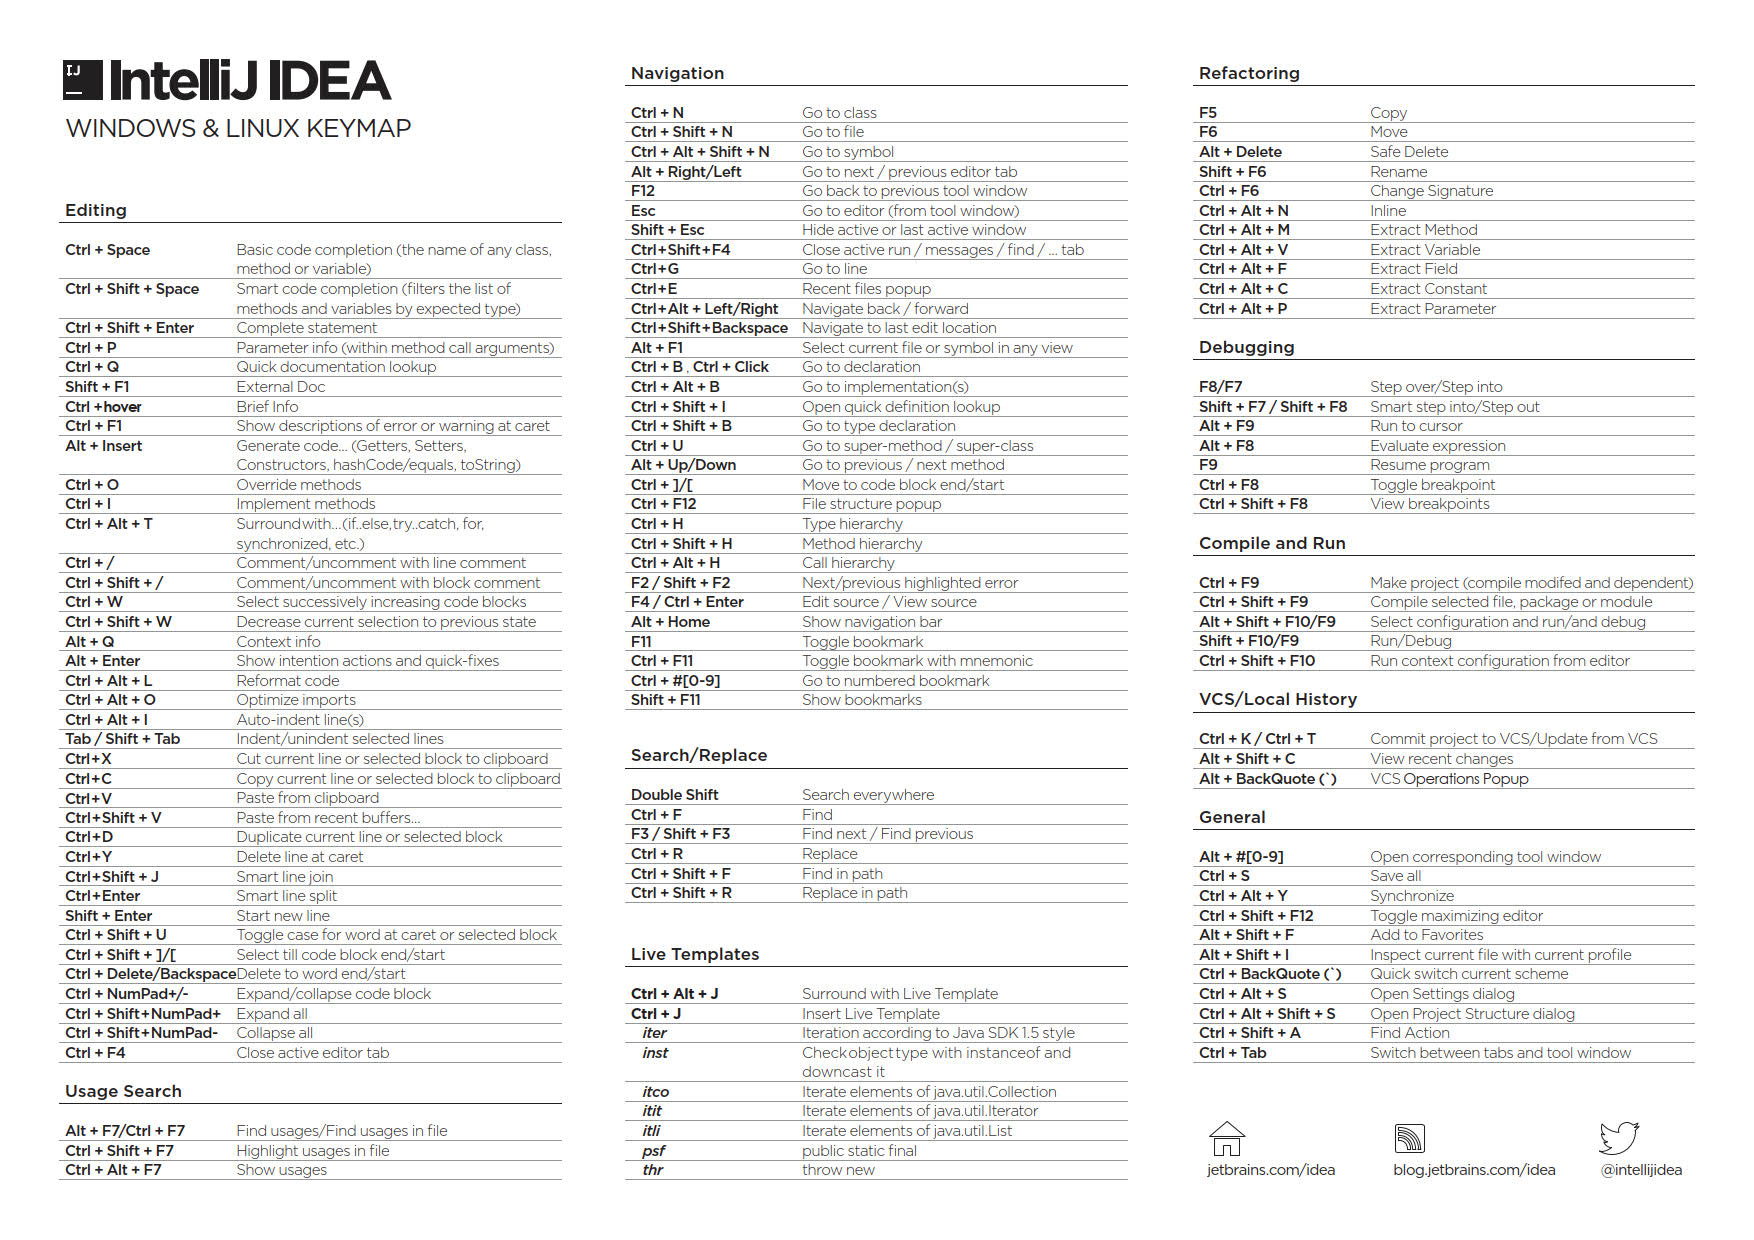
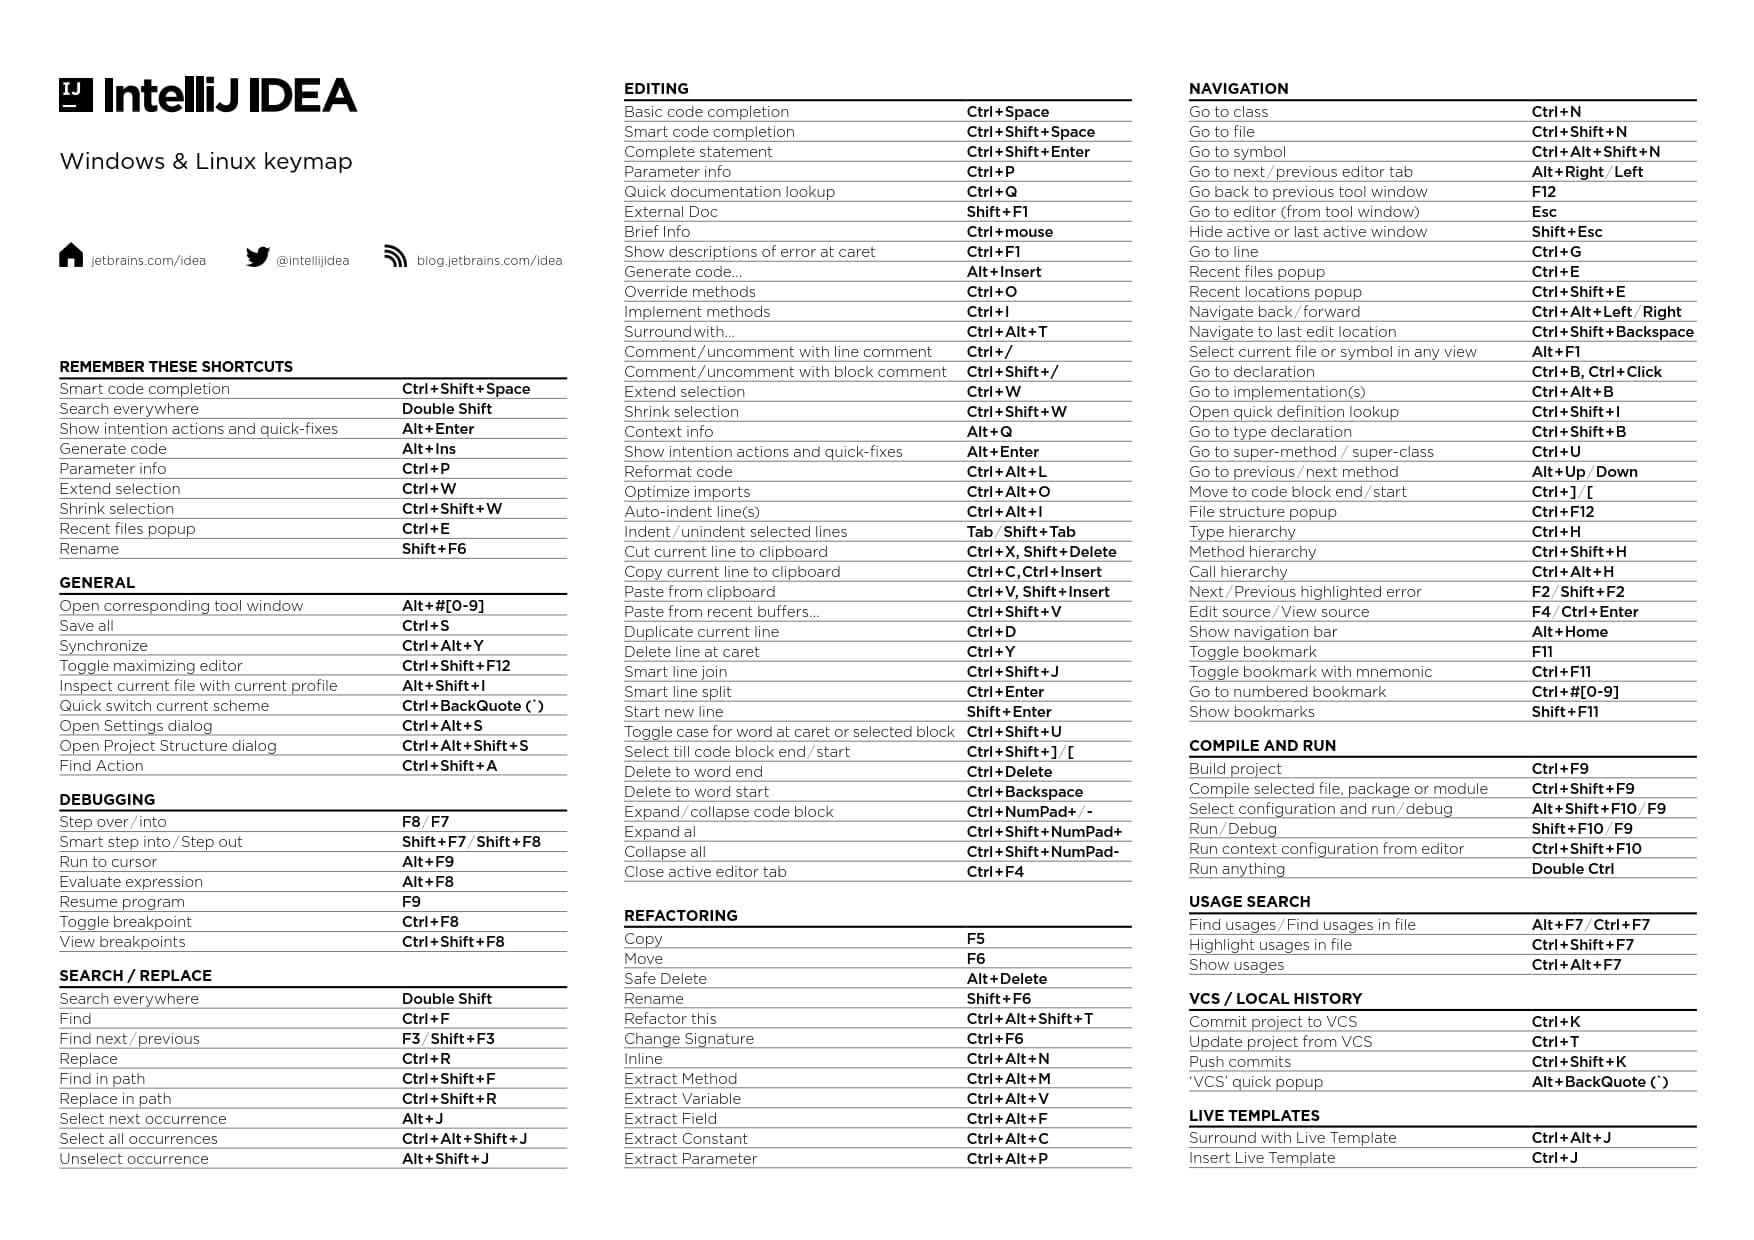
update: 更新 idea 快捷键列表；eclipse 基础使用笔记

Changed region(s): [[0.0308, 0.0306, 0.6465, 0.95], [0.6773, 0.0306, 0.9852, 0.95]]

diff --git a/其他/software/eclipse.md b/其他/software/eclipse.md
@@ -53,35 +53,18 @@
 
 ## 4. 常用设置（包含MyEclipse设置，与Eclipse设置基本通用）
 
-### 4.1. 7个小技巧，解决eclipse卡顿问题
+### 4.1. 解决 eclipse 卡顿问题相关配置
 
-1. 去掉自动构建项目，改为手动
-
-在 eclipse 的菜单栏，选择 Project，看到下方的 Build Automatically，默认是勾选的，取消勾选就行。然后每次启动项目时，可以先 clean 所选项目，然后点击右键 Build Project，这样不仅可以缓解卡顿，也可以解决某些地方修改了代码后没生效的情况。
-
-2. 修改eclipse.ini配置参数
-
-- 在eclipse.ini的文件中，有两个配置参数：Xms和Xmx。
-    - Xms是指jvm初始分配的堆内存，默认是物理内存的1/64，可以根据项目的实际大小来修改参数值。
-    - Xmx是指jvm最大分配的堆内存，默认是物理内存的1/4，可以根据项目的实际大小来修改参数值。
-- 我自己的eclipse在初始化堆内存时，大概在260M左右，所以我的eclipse.ini文件中，Xms的参数给值512m，Xmx的参数给值1024m，大家可以参考，建议根据实际项目大小和电脑本身物理内存大小来确定两个参数的配值。初始内存占用大于60%后，jvm会将堆内存增大到Xmx的设置值。初始内存占用小于30%时，jvm会将堆内存减少到Xms的设置值。所以在开发过程中，通常会将Xms和Xmx两个参数的配置相同的值，其目的是为了能够在java垃圾回收机制清理完堆区后不需要重新分隔计算堆区的大小而浪费资源。
-- 另外，如果Xmx不指定或者指定偏小，应用可能会导致java.lang.OutOfMemory错误，此错误来自jvm，不是Throwable的，无法用try…catch捕捉。
-
-3. 手动释放内存
-
-在 eclipse 菜单栏，选择【Window】->【Preferences】，点击后在弹出的选项框中，右边显示有三个勾选框，勾选第三个【Show heap status】，点击右下的Apply，点击确认后，在 eclipse 的右下方会出现 eclipse 堆内存使用情况的数据，也可以看到前面提到的 Xms 和 Xmx 参数值，并且旁边有个垃圾桶的图标，如果 eclipse 卡到想哭，可以手动点击那个垃圾桶图标释放内存。
-
-4. 关闭启动时不需要用到的插件
-
-在 eclipse 菜单栏，选择【Window】->【Preferences】，点击后在弹出的选项框中，找到【General】->【Startup and Shutdown】，在右边的详细信息中，去掉上面【Refresh workspace on startup【和【Confirm exit when closing last window】勾选，在下面的【Plug-ins activated on startup】中，没什么用处的可以都去掉勾选，点击右下的 Apply，点击确认。
-
-5. 关闭自动更新和安装
-
-在 eclipse 菜单栏，选择【Window】->【Preferences】，点击后在弹出的选项框中，找到【Install/Update】，在右边的详细信息中，勾选【Show only the latest versions of available software】和【Ask me what to do when it happens】，点击右下的 Apply，点击确认。在【Install/Update】菜单下还有两个子菜单，【Automatic Updates】和【Available Software Sites】，根据实际情况来勾选或设置，完成后点击 Apply 确认按钮。
-
-6. 关闭保存后续动作
-
-在 eclipse 菜单栏，选择【Window】->【Preferences】，点击后在弹出的选项框中，找到【Java】->【Editor】】->【Save Actions】，在右边的详细信息中，去掉【perform the selected actions on save】选项的勾选，然后点击 Apply 确认按钮。
+1. **去掉自动构建项目，改为手动**。在 eclipse 的菜单栏，选择 Project，看到下方的 Build Automatically，默认是勾选的，取消勾选就行。然后每次启动项目时，可以先 clean 所选项目，然后点击右键 Build Project，这样不仅可以缓解卡顿，也可以解决某些地方修改了代码后没生效的情况。
+2. **修改 eclipse.ini 文件的两个配置参数：Xms 和 Xmx**。
+    - Xms 是指 jvm 初始分配的堆内存，默认是物理内存的 1/64，可以根据项目的实际大小来修改参数值。
+    - Xmx 是指 jvm 最大分配的堆内存，默认是物理内存的 1/4，可以根据项目的实际大小来修改参数值。
+    > eclipse 在初始化堆内存时，大概在 260M 左右，所以有 eclipse.ini 文件中，Xms 的参数给值 512m，Xmx 的参数给值 1024m（仅供参考），建议根据实际项目大小和电脑本身物理内存大小来确定两个参数的配值。初始内存占用大于 60% 后，jvm 会将堆内存增大到 Xmx 的设置值。初始内存占用小于 30% 时，JVM 会将堆内存减少到 Xms 的设置值。所以在开发过程中，通常会将 Xms 和 Xmx 两个参数的配置相同的值，其目的是为了能够在 java 垃圾回收机制清理完堆区后不需要重新分隔计算堆区的大小而浪费资源。另外，如果 Xmx 不指定或者指定偏小，应用可能会导致 java.lang.OutOfMemory 错误，此错误来自 jvm，不是 Throwable 的，无法用 try…catch 捕捉。
+    
+3. **手动释放内存**。在 eclipse 菜单栏，选择【Window】->【Preferences】，点击后在弹出的选项框中，右边显示有三个勾选框，勾选第三个【Show heap status】，点击右下的Apply，点击确认后，在 eclipse 的右下方会出现 eclipse 堆内存使用情况的数据，也可以看到前面提到的 Xms 和 Xmx 参数值，并且旁边有个垃圾桶的图标，如果 eclipse 卡到想哭，可以手动点击那个垃圾桶图标释放内存。
+4. **关闭启动时不需要用到的插件**。在 eclipse 菜单栏，选择【Window】->【Preferences】，点击后在弹出的选项框中，找到【General】->【Startup and Shutdown】，在右边的详细信息中，去掉上面【Refresh workspace on startup【和【Confirm exit when closing last window】勾选，在下面的【Plug-ins activated on startup】中，没什么用处的可以都去掉勾选，点击右下的 Apply，点击确认。
+5. **关闭自动更新和安装**。在 eclipse 菜单栏，选择【Window】->【Preferences】，点击后在弹出的选项框中，找到【Install/Update】，在右边的详细信息中，勾选【Show only the latest versions of available software】和【Ask me what to do when it happens】，点击右下的 Apply，点击确认。在【Install/Update】菜单下还有两个子菜单，【Automatic Updates】和【Available Software Sites】，根据实际情况来勾选或设置，完成后点击 Apply 确认按钮。
+6. **关闭保存后续动作**。在 eclipse 菜单栏，选择【Window】->【Preferences】，点击后在弹出的选项框中，找到【Java】->【Editor】】->【Save Actions】，在右边的详细信息中，去掉【perform the selected actions on save】选项的勾选，然后点击 Apply 确认按钮。
 
 ### 4.2. Eclipse统一默认编码
 

diff --git a/其他/software/IDEA.md b/其他/software/IDEA.md
@@ -320,11 +320,11 @@ Editor: 选择要应用于编辑器的抗锯齿模式：
 
 ##### 4.2.1.1. 通用【General】
 
-![](images/298270816226832.png)
+![](images/551991709240365.png)
 
 ##### 4.2.1.2. 编辑【Editing】
 
-![](images/185090716239594.png)
+![](images/161991809258791.png)
 
 ##### 4.2.1.3. 查看使用情况【Usage Search】
 
@@ -332,11 +332,13 @@ Editor: 选择要应用于编辑器的抗锯齿模式：
 
 ##### 4.2.1.4. 导航【Navigation】
 
-![](images/421910716247627.png)
+![](images/492961809246658.png)
 
 ##### 4.2.1.5. 查找或替换【Search/Replace】
 
-![](images/494150716240296.png)
+![](images/171022509266824.png)
+
+> 最后三个快捷键是较新版本新增
 
 ##### 4.2.1.6. 代码模板【Live Templates】
 
@@ -344,7 +346,7 @@ Editor: 选择要应用于编辑器的抗锯齿模式：
 
 ##### 4.2.1.7. 重构【Refactoring】
 
-![](images/14660816232605.png)
+![](images/112772609259493.png)
 
 ##### 4.2.1.8. 调试【Debugging】
 
@@ -352,11 +354,11 @@ Editor: 选择要应用于编辑器的抗锯齿模式：
 
 ##### 4.2.1.9. 编译与运行【Compile and Run】
 
-![](images/134670816248089.png)
+![](images/500732609256048.png)
 
 ##### 4.2.1.10. 版本管理与本地历史记录【VCS/Local History】
 
-![](images/204120816245591.png)
+![](images/5102709251802.png)
 
 #### 4.2.2. 查看快捷键
 
